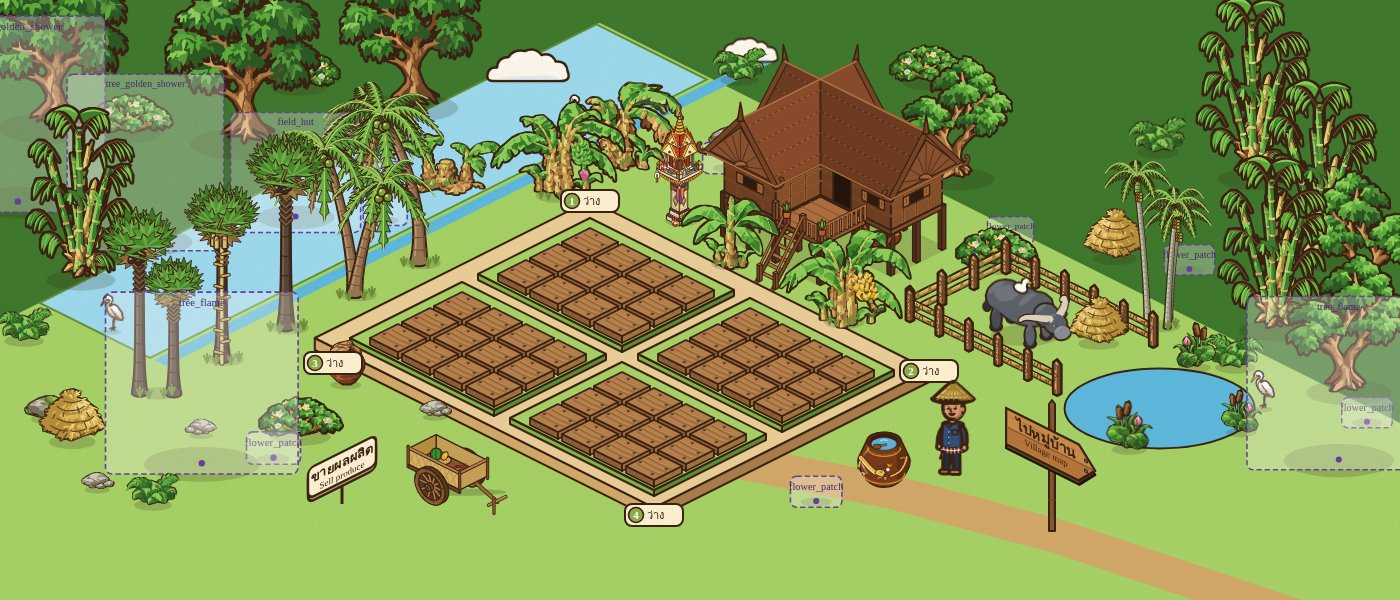
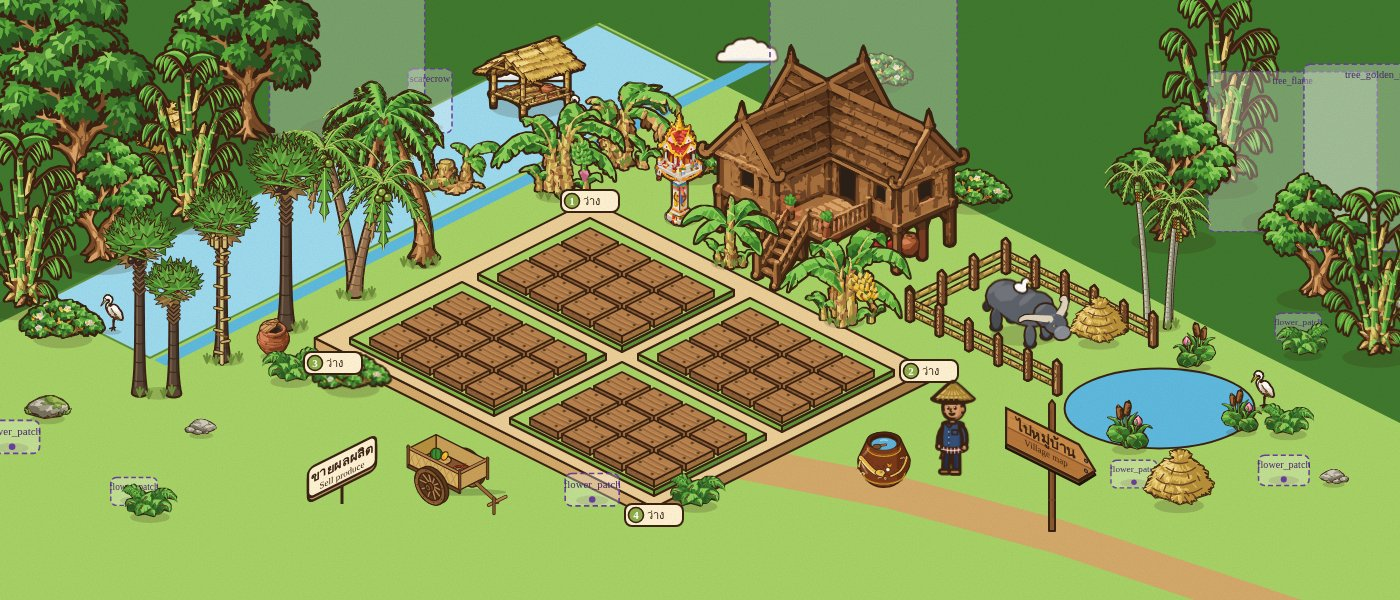
Farm recipe: field hut and scarecrow into open paddy, big trees only on the forest edge
Claude-Session: https://claude.ai/code/session_01SuEzVnLzSy81bsDqDqTwQG

diff --git a/js/art/iso.js b/js/art/iso.js
@@ -299,16 +299,16 @@ const FARM_RECIPE = (() => {
       paddy: (u, v) => inPaddy(u, v),
       rim: (u, v, x, y) => { const k = water(x, y); return k > .93 && k < 1.12; },
     },
-    tallOk: (u, v, x, y) => y >= 100 && (y < 330 || x < 0 || x > 800) && pathDist(u, v) > 1.5,
+    tallOk: (u, v, x, y) => y >= 100 && (y < 330 || ((x < 0 || x > 800) && y < 440)) && pathDist(u, v) > 1.5,
     occupied: [[...FARM_HOUSE.at.map((n, i) => n + [1.9, 1.5][i]), 2.4], [...FARM_SHRINE, .8], [10.3, -3.5, 2.4]]
       .concat(BANANA_SPOTS.map(([u, v]) => [u, v, .8]), PALM_SPOTS.map(([u, v]) => [u, v, .7])),
-    landmarks: [['kit.field_hut', -4.9, 4.3, 1, false, 1], ['kit.scarecrow', -3.4, 3.0, 1, false, .3], ['kit.haystack', 11.6, -4.3, .9, false, .5]],
+    landmarks: [['kit.field_hut', -4.7, -2.8, 1, false, 1], ['kit.scarecrow', -5.6, -0.6, 1, false, .3], ['kit.haystack', 11.6, -4.3, .9, false, .5]],
     keepClear: [[20, 420, 260, 545], [540, 360, 700, 545], [690, 380, 810, 545], [740, 46, 800, 170]],   // cart + sign, jar + farmer, signpost, zoom buttons
     pieces: [
       ['kit.tree_round_a', 3, ['forest_edge'], .9, 170, true, false],
-      ['kit.tree_round_b', 3, ['forest_edge', 'margin'], .8, 140, true, true],
+      ['kit.tree_round_b', 3, ['forest_edge'], .8, 140, true, true],
       ['kit.tree_golden_shower', 2, ['forest_edge'], .8, 160, true, false],
-      ['kit.tree_flame', 2, ['forest_edge', 'margin'], .9, 150, true, false],
+      ['kit.tree_flame', 2, ['forest_edge'], .9, 150, true, false],
       ['kit.bamboo_clump', 4, ['forest_edge'], .8, 185, true, false],
       ['kit.haystack', 2, ['grass', 'margin'], .6, 52, false, true],
       ['kit.water_jar', 1, ['grass'], .4, 44, false, false],
